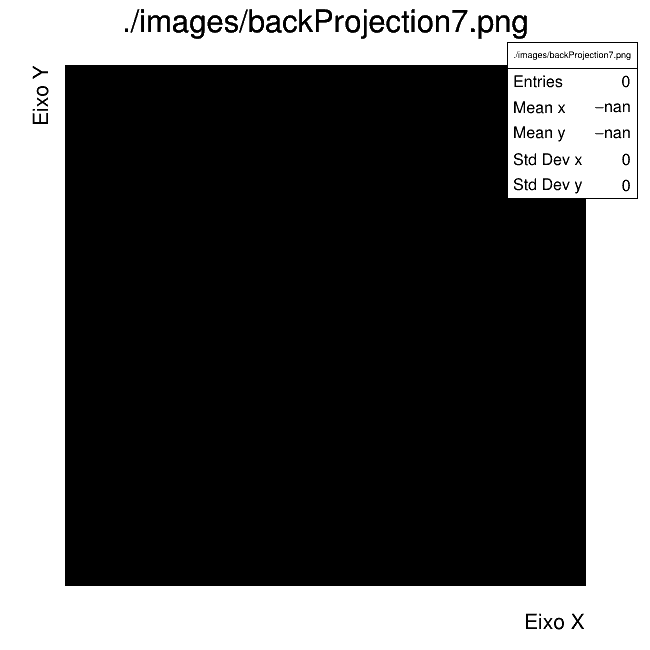
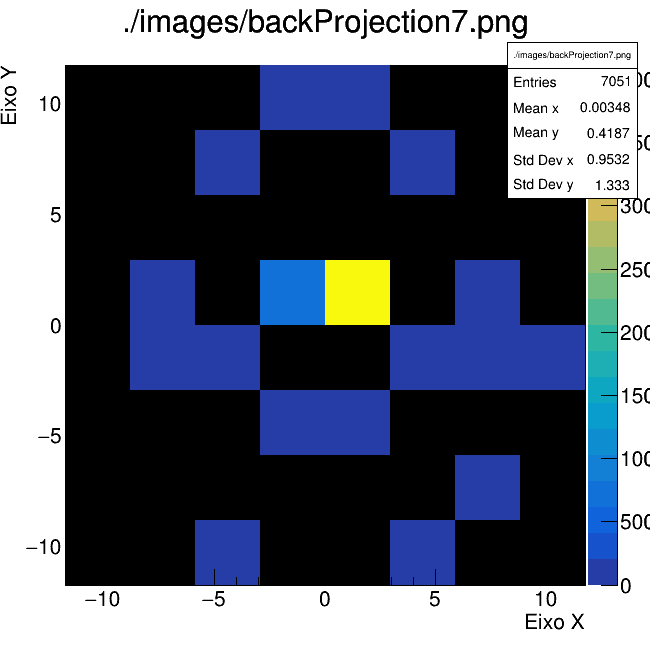
ift and dft

diff --git a/src/backprojection.cpp b/src/backprojection.cpp
@@ -26,9 +26,10 @@ std::vector<Projection> backprojection(std::vector<std::array<float, 4>> project
     backprojectionNameStream << "./images/backProjection" << h << ".png";
     // dft(projections, h);
 
-    TH2F *myBackProjection = new TH2F(backprojectionNameStream.str().c_str(), backprojectionNameStream.str().c_str(), 8, -11.76, +11.76 + offset, 8, -11.76, +11.76 + offset);
+    TH2F *myBackProjection = new TH2F(backprojectionNameStream.str().c_str(), backprojectionNameStream.str().c_str(), 8, -11.76, +11.76, 8, -11.76, +11.76);
 
     std::vector<std::array<float, 4>> projectionsValues;
+    std::vector<std::array<float, 2>> fourierXandY;
     std::vector<Projection> projectionVector;
     std::array<float, 4>
         positions;
@@ -56,51 +57,33 @@ std::vector<Projection> backprojection(std::vector<std::array<float, 4>> project
         }
         Projection projection(angle);
         projection.projectionFunction(projections[k]);
+
         projectionVector.push_back(projection);
     }
     float N = 0.0;
     std::cout << projectionVector.size() << std::endl;
-    std::vector<float> possiblePositions;
-    /* Simple Back Projection
-     */
+    int projectionVectorSize = projectionVector.size();
+    for (int k = 0; k < projectionVectorSize; k++)
+    {
 
-    // for (int i = 0; i < (columnN); i++)
-    // {
-    //     possiblePositions.push_back(((i - (columnN / 2)) * pitch) + offset);
-    // }
+        projectionVector[k].fourierProjection();
+        projectionVector[k].inverseFourierProjection();
+        int projectionsSize = projectionVector[k].inverseFourier.size();
+        for (int m = 0; m < projectionsSize; m++)
+        {
 
-    // for (int x = 0; x < columnN; x++)
-    // {
-    //     for (int y = 0; y < columnN; y++)
-    //     {
-    //         for (int i = 0; i < projectionSize; i++)
-    //         {
-    //             float s = (projections[i][0]);
-    //             float theta = projections[i][1];
-    //             float r = (possiblePositions[x] * cos(theta) + possiblePositions[y] * sin(theta));
-    //             if ((s < (r + 0.1)) && (s > (r - 0.1)))
-    //             {
-    //                 N++;
-    //                 positions[0] = possiblePositions[x];
-    //                 positions[1] = possiblePositions[y];
-    //                 positions[2] = projections[i][2];
-    //                 positions[3] = 0;
-    //                 projectionsValues.push_back(positions);
-    //                 myBackProjection->Fill(possiblePositions[x], possiblePositions[y]);
-    //             }
-    //         }
-    //     }
-    // }
+            myBackProjection->Fill(projectionVector[k].inverseFourier[m][0], projectionVector[k].inverseFourier[m][1]);
+        }
+    }
+
+    std::cout << "Ended BackProjection of" << h << std::endl;
 
     c2.SetCanvasSize(600, 600);
     c2.SetWindowSize(700, 700);
     c2.GetFrame()->SetLineColor(0);
     c2.SetFrameFillColor(1);
-    myBackProjection->GetXaxis()->SetLabelSize(0);
-    myBackProjection->GetYaxis()->SetLabelSize(0);
     myBackProjection->GetYaxis()->SetTitle("Eixo Y");
     myBackProjection->GetXaxis()->SetTitle("Eixo X");
-    myBackProjection->Scale(1 / N);
     myBackProjection->Draw("COLZ");
 
     c2.SaveAs(backprojectionNameStream.str().c_str());

diff --git a/src/inverseDiscreteFourierTransform.cpp b/src/inverseDiscreteFourierTransform.cpp
@@ -3,41 +3,39 @@
 #include <complex>
 #include <vector>
 #include <iostream>
-#include "../header/discreteFourierTransform.h"
+#include "../header/inverseDiscreteFourierTransform.h"
 
 /*https://jakevdp.github.io/blog/2013/08/28/understanding-the-fft/ */
 /*https://en.wikipedia.org/wiki/Discrete_Fourier_transform#:~:text=In%20mathematics%2C%20the%20discrete%20Fourier,complex%2Dvalued%20function%20of%20frequency.*/
 /*Escrever em termo de cos*/
 
-std::vector<std::array<float, 4>> dft(std::vector<std::array<float, 4>> projectionProfile)
+std::vector<std::array<float, 2>> idft(std::vector<std::array<float, 2>> projectionProfile)
 {
-	// TODO rever essa dft pra que fique mais rápida
+	// TODO ERRO NA INVERSE DISCRETE
 	const int projectionsProfileSize = projectionProfile.size();
 	float PI = 3.14159265358979323846;
 
-	std::vector<std::array<float, 4>> projectionProfileFourier;
-	std::array<float, 4> valuesFourier;
+	std::vector<std::array<float, 2>> projectionProfileFourier;
+	std::array<float, 2> valuesFourier;
 	int n = 0;
-
-	// TODO adicionar um gráfico para visualização dos dados
 
 	for (int k = 0; k < projectionsProfileSize; k++)
 	{
 		float sum = 0;
+		valuesFourier[0] = 0;
+		valuesFourier[1] = 0;
 		for (int m = 0; m < projectionsProfileSize; m++)
 		{
 			for (int n = 0; n < projectionsProfileSize; n++)
 			{
-				sum = sum + projectionProfile[n][0] * (cos(-2 * PI * m * n / projectionsProfileSize));
+				valuesFourier[0] = valuesFourier[0] + projectionProfile[n][0] * (cos(2 * PI * m * n / projectionsProfileSize));
+				valuesFourier[1] = valuesFourier[1] + projectionProfile[n][1] * (cos(2 * PI * m * n / projectionsProfileSize));
 			}
 		}
 
-		valuesFourier[0] = sum * (1 / projectionsProfileSize);
-		valuesFourier[1] = projectionProfile[k][1];
-		valuesFourier[2] = projectionProfile[k][2];
-		valuesFourier[3] = projectionProfile[k][3];
 		projectionProfileFourier.push_back(valuesFourier);
 	}
 
+	std::cout << "Ended a sum" << std::endl;
 	return projectionProfileFourier;
 }

diff --git a/src/projections.cpp b/src/projections.cpp
@@ -4,6 +4,8 @@
 #include <sstream>
 #include "TCanvas.h"
 #include "../header/projections.h"
+#include "../header/discreteFourierTransform.h"
+#include "../header/inverseDiscreteFourierTransform.h"
 #include <iostream>
 /**
  * Define uma projection.
@@ -14,3 +16,24 @@ void Projection::projectionFunction(std::array<float, 4> event)
 
 	projection.push_back(event);
 };
+
+void Projection::fourierProjection()
+{
+	std::array<float, 2> intermediateArray;
+
+	std::vector<std::array<float, 4>> fourierTransform;
+	fourierTransform = dft(projection);
+
+	int fourierTransformSize = fourierTransform.size();
+	for (int k = 0; k < fourierTransformSize; k++)
+	{
+		intermediateArray[0] = fourierTransform[k][0] * cos(angle);
+		intermediateArray[1] = fourierTransform[k][0] * sin(angle);
+		fourierTransform2d.push_back(intermediateArray);
+	};
+}
+
+void Projection::inverseFourierProjection()
+{
+	inverseFourier = idft(fourierTransform2d);
+}

diff --git a/header/projections.h b/header/projections.h
@@ -7,10 +7,12 @@ public:
     float angle;
     std::array<float, 4> event;
     std::vector<std::array<float, 4>> projection;
-
-    // TODO criar função para reproduzir projeções
+    std::vector<std::array<float, 2>> fourierTransform2d;
+    std::vector<std::array<float, 2>> inverseFourier;
 
 public:
     Projection(float angle) : angle(angle){};
     void projectionFunction(std::array<float, 4> event);
+    void fourierProjection();
+    void inverseFourierProjection();
 };

diff --git a/header/inverseDiscreteFourierTransform.h b/header/inverseDiscreteFourierTransform.h
@@ -7,6 +7,5 @@
 
 /*https://jakevdp.github.io/blog/2013/08/28/understanding-the-fft/ */
 /*https://en.wikipedia.org/wiki/Discrete_Fourier_transform#:~:text=In%20mathematics%2C%20the%20discrete%20Fourier,complex%2Dvalued%20function%20of%20frequency.*/
-/*Escrever em termo de cos*/
 
-std::vector<std::array<float, 4>> dft(std::vector<std::array<float, 4>> projectionProfile);
+std::vector<std::array<float, 2>> idft(std::vector<std::array<float, 2>> projectionProfile);
